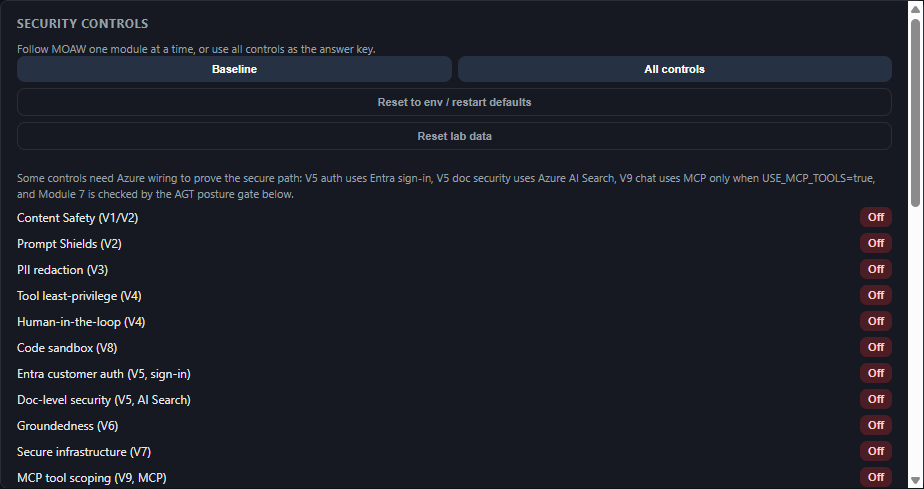
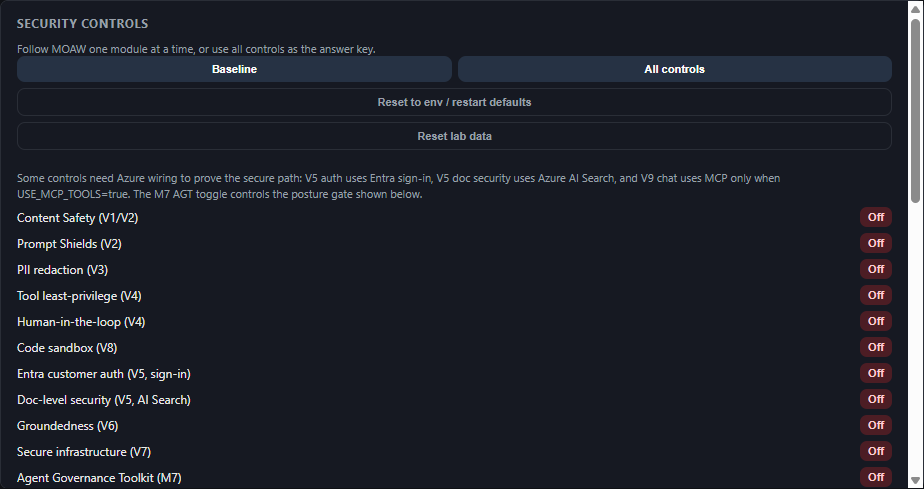
Make agent governance a runtime control

Changed region(s): [[0.0, 0.3681, 0.4545, 0.4294], [0.6667, 0.3374, 0.9394, 0.3988], [0.0, 0.9509, 0.2121, 1.0]]

diff --git a/src/app/static/app.js b/src/app/static/app.js
@@ -17,6 +17,7 @@ const TOGGLE_LABELS = {
   doc_security: "Doc-level security (V5, AI Search)",
   groundedness: "Groundedness (V6)",
   secure_runtime: "Secure infrastructure (V7)",
+  agent_governance: "Agent Governance Toolkit (M7)",
   mcp_tool_security: "MCP tool scoping (V9, MCP)",
   ai_gateway: "AI gateway / APIM (V10, burst)",
   a2a_guard: "Agent-to-agent guard (V11)",
@@ -421,7 +422,7 @@ async function loadPosture() {
   renderToggleActions(cfg);
   const modeHint = document.createElement("div");
   modeHint.className = "hint";
-  modeHint.textContent = "Some controls need Azure wiring to prove the secure path: V5 auth uses Entra sign-in, V5 doc security uses Azure AI Search, V9 chat uses MCP only when USE_MCP_TOOLS=true, and Module 7 is checked by the AGT posture gate below.";
+  modeHint.textContent = "Some controls need Azure wiring to prove the secure path: V5 auth uses Entra sign-in, V5 doc security uses Azure AI Search, and V9 chat uses MCP only when USE_MCP_TOOLS=true. The M7 AGT toggle controls the posture gate shown below.";
   box.appendChild(modeHint);
   for (const [key, label] of Object.entries(TOGGLE_LABELS)) {
     const on = !!cfg[key];

diff --git a/src/app/static/index.html b/src/app/static/index.html
@@ -191,6 +191,6 @@
     </div>
   </div>
 
-  <script src="/static/app.js?v=2026-06-governance-control"></script>
+  <script src="/static/app.js?v=2026-06-governance-toggle"></script>
 </body>
 </html>

diff --git a/src/tests/test_vulnerabilities.py b/src/tests/test_vulnerabilities.py
@@ -277,9 +277,19 @@ def test_agent_governance_posture_gate_tracks_runtime_controls(monkeypatch):
     assert baseline["module"] == "Module 7 - Agent Governance Toolkit posture gate"
     assert baseline["status"] == "FAIL"
     assert baseline["critical_gaps"] > 0
+    assert any(control["name"] == "Agent Governance Toolkit posture gate" for control in baseline["controls"])
     assert baseline["toolkit_command"].startswith("agt verify")
 
     secure = client.post("/api/config/toggles", json={"secure_mode": True}).json()
+    assert secure["agent_governance"] is True
+
+    disabled_gate = client.post("/api/config/toggles", json={"controls": {"agent_governance": False}}).json()
+    assert disabled_gate["agent_governance"] is False
+    disabled_posture = client.get("/api/lab/governance-posture").json()
+    assert disabled_posture["status"] == "FAIL"
+    assert disabled_posture["critical_gaps"] == 1
+
+    client.post("/api/config/toggles", json={"controls": {"agent_governance": True}})
     posture = client.get("/api/lab/governance-posture").json()
     assert posture["status"] == "PASS"
     assert posture["critical_gaps"] == 0

diff --git a/src/config.py b/src/config.py
@@ -31,6 +31,7 @@ SECURITY_CONTROLS = {
     "doc_security": "enable_doc_security",
     "groundedness": "enable_groundedness",
     "secure_runtime": "enable_secure_runtime",
+    "agent_governance": "enable_agent_governance",
     "mcp_tool_security": "enable_mcp_tool_security",
     "ai_gateway": "enable_ai_gateway",
     "a2a_guard": "enable_a2a_guard",
@@ -71,6 +72,7 @@ class Settings(BaseSettings):
     enable_doc_security: bool | None = Field(default=None, alias="ENABLE_DOC_SECURITY")      # V5
     enable_groundedness: bool | None = Field(default=None, alias="ENABLE_GROUNDEDNESS")      # V6
     enable_secure_runtime: bool | None = Field(default=None, alias="ENABLE_SECURE_RUNTIME")  # V7
+    enable_agent_governance: bool | None = Field(default=None, alias="ENABLE_AGENT_GOVERNANCE")  # M7
     enable_mcp_tool_security: bool | None = Field(default=None, alias="ENABLE_MCP_TOOL_SECURITY")  # V9
     enable_ai_gateway: bool | None = Field(default=None, alias="ENABLE_AI_GATEWAY")          # V10
     enable_a2a_guard: bool | None = Field(default=None, alias="ENABLE_A2A_GUARD")            # V11

diff --git a/src/scripts/governance_check.py b/src/scripts/governance_check.py
@@ -56,6 +56,9 @@ INVENTORY = {
 
 # The controls the policy expects to be in force, highest-risk first.
 CONTROLS = [
+    Control("Agent Governance Toolkit posture gate", "enable_agent_governance",
+            "LLM06", "T2/T8/T12", "M7", True,
+            "AGT policy verification is active as the agent-system governance gate."),
     Control("Human-in-the-loop on money movement", "enable_hitl",
             "LLM06", "T10", "V4", True,
             "transfer_funds / send_statement_email must pause for human approval."),

diff --git a/docs/workshop.md b/docs/workshop.md
@@ -241,7 +241,7 @@ Each Part-2 module touches a single, obvious lever. This map lists the **toggle-
 
 > **Toggle acronyms in that table:** `TOOL_LEAST_PRIV` = tool least-privilege (each tool gets *only* the permissions it needs) · `HITL` = human-in-the-loop approval on risky actions · `MCP_TOOL_SECURITY` = scope/allow-list remote Model Context Protocol tools · `CODE_SANDBOX` = run model-written code in an isolated sandbox · `OBO` = Entra ID On-Behalf-Of token flow · `DOC_SECURITY` = AI Search document-level access control · `SECURE_RUNTIME` = private endpoints + safe error handling. (Full glossary is in the *Acronym decoder* box near the top.)
 >
-> **Why are some rows marked script-backed or portal-backed?** Only a few modules are simple `ENABLE_*` switches. **Module 7** is an executable governance posture gate (`python -m src.scripts.governance_check`), **Module 9** runs evaluation scripts ([src/evals/run.py](https://github.com/yelghali/damn_vulnerable_agentic_app_security/blob/main/src/evals/run.py)), **Module 10** is Purview configuration in the Azure / Microsoft Purview portals, and **Module 11** runs automated AI red teaming ([src/redteam/run.py](https://github.com/yelghali/damn_vulnerable_agentic_app_security/blob/main/src/redteam/run.py)).
+> **Why are some rows marked script-backed or portal-backed?** Only a few modules are simple `ENABLE_*` switches. **Module 7** now has the same on/off sidebar toggle (`ENABLE_AGENT_GOVERNANCE`) and an executable posture gate (`python -m src.scripts.governance_check`), **Module 9** runs evaluation scripts ([src/evals/run.py](https://github.com/yelghali/damn_vulnerable_agentic_app_security/blob/main/src/evals/run.py)), **Module 10** is Purview configuration in the Azure / Microsoft Purview portals, and **Module 11** runs automated AI red teaming ([src/redteam/run.py](https://github.com/yelghali/damn_vulnerable_agentic_app_security/blob/main/src/redteam/run.py)).
 
 The master switch is `SECURE_MODE`. Any individual toggle left unset inherits `SECURE_MODE`, so:
 
@@ -1485,7 +1485,7 @@ rules:
 
 ### 2 · Run the posture check (two security checks, offline)
 
-Run the governance gate. In the **vulnerable baseline it FAILs** — seven critical controls are off — and the report names each gap with its `Tn` threat and `Vn`:
+Run the governance gate. In the **vulnerable baseline it FAILs** — eight critical controls are off, including the AGT gate itself — and the report names each gap with its `Tn` threat and `Vn`:
 
 ```bash
 python -m src.scripts.governance_check          # exits non-zero -> CI gate fails
@@ -1493,7 +1493,7 @@ python -m src.scripts.governance_check          # exits non-zero -> CI gate fail
 # Human-in-the-loop on money movement     FAIL  T10   V4  <- critical
 # Sandboxed code execution                FAIL  T11   V8  <- critical
 # Agent-to-agent message guard            FAIL  T12   V11 <- critical
-# Posture: 0/13 controls enabled · 7 critical gap(s).   RESULT: FAIL
+# Posture: 0/14 controls enabled · 8 critical gap(s).   RESULT: FAIL
 ```
 
 Now flip the answer key and re-run — every control passes and the gate goes green:
@@ -1510,7 +1510,7 @@ $env:SECURE_MODE='true'; py -m src.scripts.governance_check   # RESULT: PASS —
 
 That's **check #1: a governance posture gate** you can wire into CI so a regression that disables HITL or the sandbox fails the build.
 
-The chat app sidebar also surfaces this as **Agent Governance Toolkit** so participants can see the same policy gate while they flip controls: baseline shows `FAIL` with the critical gaps, and **All controls** shows `PASS` against [src/agents/governance/policy.yaml](https://github.com/yelghali/damn_vulnerable_agentic_app_security/blob/main/src/agents/governance/policy.yaml).
+The chat app sidebar also surfaces this as **Agent Governance Toolkit (M7)** with its own On/Off control. Turn it on by itself to show that the gate exists but still fails until the underlying critical controls are enabled; **All controls** turns on the AGT gate and the controls it evaluates, so the posture shows `PASS` against [src/agents/governance/policy.yaml](https://github.com/yelghali/damn_vulnerable_agentic_app_security/blob/main/src/agents/governance/policy.yaml).
 
 **Check #2 — govern a tool at runtime.** With the real toolkit installed (`pip install agent-governance-toolkit`), wrap the highest-risk tool so the policy is enforced on every call, independently of the agent's reasoning:
 
